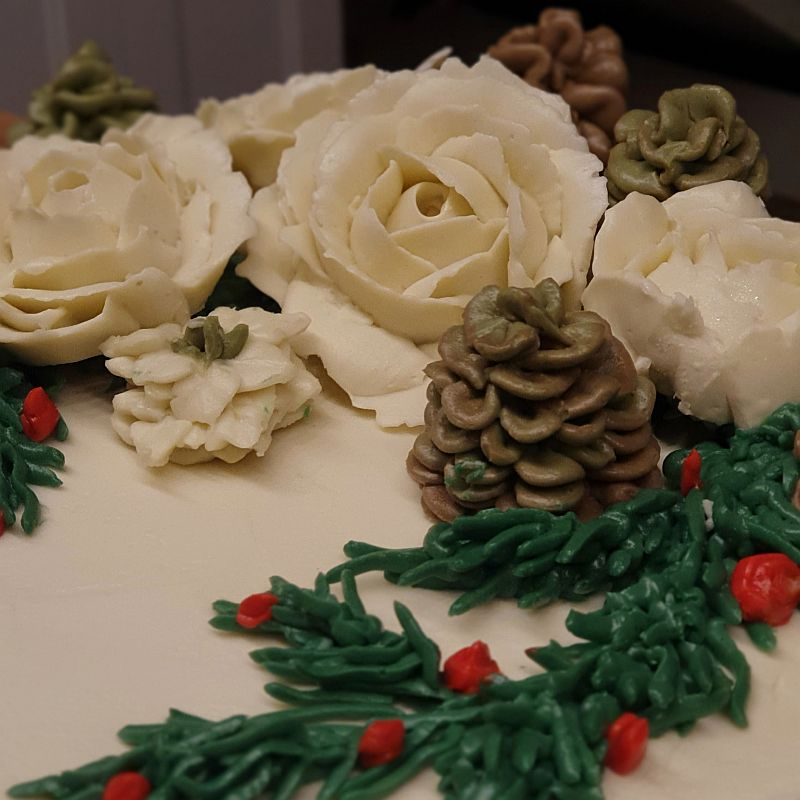
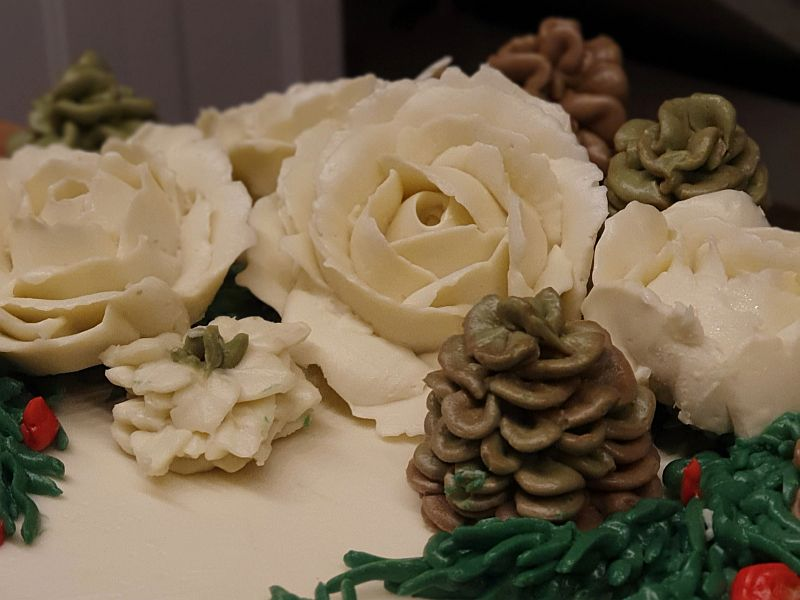
picture element on thanks

diff --git a/assets/html/thanks.html b/assets/html/thanks.html
@@ -32,16 +32,19 @@
 	</header>
 	<main>
 
-		<section>
+		<section id="thanks">
 
 			<h2>Thanks for your order request!</h2>
 			<p>I will be in contact with you about your order shortly.</p>
 
-		</section>
-
 		<picture>
-			<img src="../img/recipes/desserts/winter_cake_decor_20221222_000341_800.jpg" alt="Winter cake piped decoration with white roses and pine cones." >
+			<source srcset="../img/recipes/desserts/winter_cake_decor_20221222_000341_280.jpg" media="max-width:420px">
+			<source srcset="../img/recipes/desserts/winter_cake_decor_20221222_000341_400.jpg" media="min-width:420px">
+			<source srcset="../img/recipes/desserts/winter_cake_decor_20221222_000341_800.jpg" media="min-width: 820px">
+			<img src="../img/recipes/desserts/winter_cake_decor_20221222_000341_400.jpg" alt="Winter cake piped decoration with white roses and pine cones." >
 		</picture>
+
+	</section>
 	</main>
 
 	<footer>

diff --git a/assets/html/order.html b/assets/html/order.html
@@ -100,7 +100,8 @@
 					</p> <!--OBS regex kanske inte inkluderar alla adresser...-->
 					<p>
 						<label for="Phone">Phone:</label>
-						<input type="tel" id="Phone" name="phone" pattern="[0-9]{3}-[0-9]{7}">
+						<input type="tel" id="Phone" name="phone" pattern="(\+?[0-9]{1,3})?[-\s]?([0-9]{1,4})[-\s]?([0-9]{1,4})[-\s]?([0-9]{1,4})[-\s]?([0-9]{1,4})
+						">
 					</p> <!--OBS svenskt telnr regex-->
 				</fieldset>
 				<fieldset>
@@ -133,11 +134,12 @@
 						<label for="Comments">Comments:</label>
 						<textarea id="Comments" name="comments" rows="5" cols="30"></textarea>
 					</p>
+					
+					</fieldset>
 					<p class="submit">
 						<input type="submit" name="submit" id="Submit" value="Submit your order request">
 						<input type="reset" value="Clear the form">
 					</p>
-					</fieldset>
 				</form>
 			</article>
 

diff --git a/assets/css/style.css b/assets/css/style.css
@@ -588,11 +588,24 @@ tbody tr:nth-of-type(odd) {
   background-color: var(--primary-light);
 }
 
+#thanks{
+  text-align: center;
+}
+/*thanks*/
+#thanks img{
+ max-width:max-content;
+width: 100%;
+margin: 1.5rem auto;
+
+}
+
+/*end thanks*/
+
 footer{
   display: block;
   text-align: center;
   background-color: var(--accent-light-pink);
-  color: ver(--primary-dark);
+  color: var(--primary-dark);
   padding: 2rem 1rem;
 }
 
